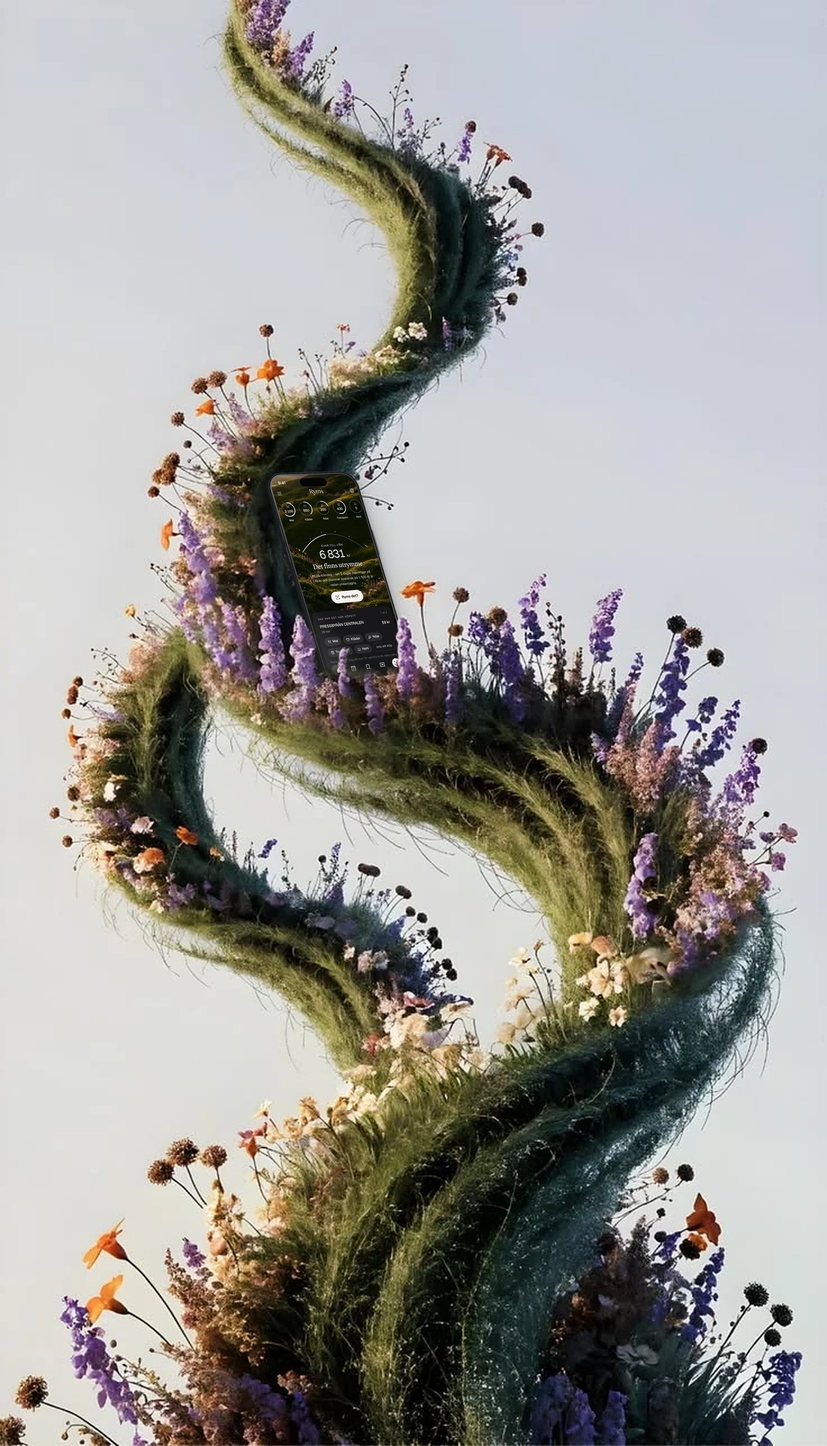
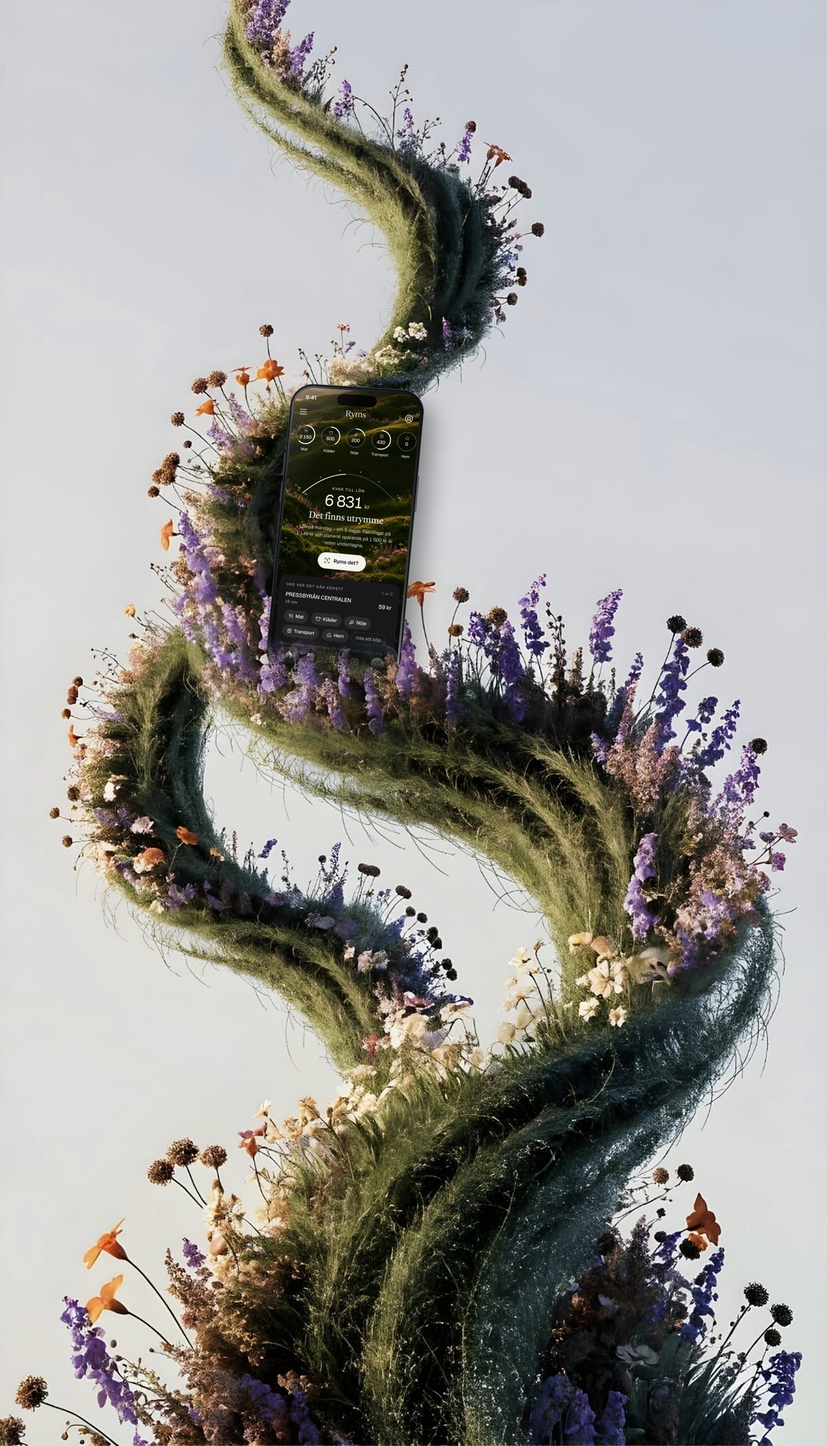
Landningssida: tillbaka till den upprätta telefonen, större och centrerad på mobil
Claude-Session: https://claude.ai/code/session_01GAD7svFHpQ8hFb5MfyqAze

diff --git a/src/app/globals.css b/src/app/globals.css
@@ -2816,3 +2816,23 @@ body:not(:has(.shell.home)):not(:has([data-testid="result"])) .backdrop::after {
     background: linear-gradient(180deg, rgba(240, 242, 244, 0.94) 0%, rgba(240, 242, 244, 0.8) 52%, rgba(240, 242, 244, 0) 100%);
   }
 }
+
+/* Landningssidan på mobil: telefonen större och mitt i bild */
+@media (max-width: 899px) {
+  .lp-art {
+    top: -91vw;
+    left: -59.300vw;
+    width: 250vw;
+  }
+  .lp-hero-copy {
+    padding-top: 128vw;
+  }
+  .lp-hero-copy::before {
+    top: 110vw;
+  }
+}
+@media (max-width: 899px) {
+  .lp-art {
+    left: -54.800vw;
+  }
+}

diff --git a/scripts/landing-hero.py b/scripts/landing-hero.py
@@ -1,85 +1,51 @@
 """Bygger landningssidans bild: telefonen (assets/landing/phone.png) läggs in i blomsterspiralen.
 
-Telefonen vilar bakåtlutad mot den mörka grenen, med toppen uppåt vänster och foten i lavendeln.
-
   npm run build && node tests/preview/landing-shots.cjs && node scripts/landing-phone.cjs && python3 scripts/landing-hero.py
 """
-import math, os
+import os
 import numpy as np
 from PIL import Image, ImageFilter, ImageChops
 
 ROOT = os.path.dirname(os.path.dirname(os.path.abspath(__file__)))
 A = lambda *p: os.path.join(ROOT, *p)
 K = 2  # arbetsskala
+# Telefonens läge i originalbilden (1143 x 1996): mittpunkt och höjd
+CX, CY, PH = 500, 772, 500
 
 marked = Image.open(A("assets/landing/spiral-marked.jpg")).convert("RGB")
 clean = Image.open(A("assets/landing/spiral-clean.webp")).convert("RGB").resize(marked.size, Image.LANCZOS)
-base = clean.resize((clean.width * K, clean.height * K), Image.LANCZOS).filter(ImageFilter.UnsharpMask(radius=2, percent=60, threshold=2))
-
-# Telefonens fyra hörn, avlästa ur förlagan assets/landing/phone-placement.png (878 x 1536):
-# vänster-upp, höger-upp, höger-ned, vänster-ned.
-REF_W = 878
-pts = [(280, 503), (377, 500), (441, 716), (347, 729)]
-f = marked.width / REF_W
-cx, cy = sum(p[0] for p in pts) / 4, sum(p[1] for p in pts) / 4
-quad = [(x * f * K, y * f * K) for x, y in pts]
-CX, CY = cx * f, cy * f
+# Ta bort den röda markeringen: ersätt de röda pixlarna med den rena bildens
+m = np.array(marked).astype(int)
+red = ((m[..., 0] > 170) & (m[..., 1] < 75) & (m[..., 2] < 75)).astype(np.uint8) * 255
+redmask = Image.fromarray(red).filter(ImageFilter.MaxFilter(9)).filter(ImageFilter.GaussianBlur(2))
+base = Image.composite(clean, marked, redmask)
+base = base.resize((base.width * K, base.height * K), Image.LANCZOS).filter(ImageFilter.UnsharpMask(radius=2, percent=60, threshold=2))
 
 phone = Image.open(A("assets/landing/phone.png")).convert("RGBA")
-phone = phone.crop(phone.getbbox())
-PW, PH = phone.size
+h = PH * K
+phone = phone.resize((int(phone.width * h / phone.height), h), Image.LANCZOS)
+x0, y0 = CX * K - phone.width // 2, CY * K - phone.height // 2
 
+# Skugga bakom telefonen
+alpha = phone.split()[3]
+shadow = Image.new("L", base.size, 0)
+shadow.paste(alpha, (x0 + 14 * K, y0 + 18 * K))
+shadow = shadow.filter(ImageFilter.GaussianBlur(16 * K)).point(lambda v: int(v * 0.42))
+out = Image.composite(Image.new("RGB", base.size, (20, 24, 22)), base, shadow)
+out.paste(phone, (x0, y0), phone)
 
-def coeffs(dst, src):
-    a, b = [], []
-    for (x, y), (u, v) in zip(dst, src):
-        a.append([x, y, 1, 0, 0, 0, -u * x, -u * y])
-        a.append([0, 0, 0, x, y, 1, -v * x, -v * y])
-        b += [u, v]
-    return tuple(np.linalg.solve(np.array(a, float), np.array(b, float)))
-
-
-SS = 2
-big = (base.width * SS, base.height * SS)
-src = [(0, 0), (PW, 0), (PW, PH), (0, PH)]
-
-
-def warp(im, q):
-    return im.transform(big, Image.PERSPECTIVE, coeffs([(x * SS, y * SS) for x, y in q], src), Image.BICUBIC).resize(base.size, Image.LANCZOS)
-
-
-layer = warp(phone, quad)
-alpha = layer.split()[3]
-
-# Skugga på grenen: tät nära telefonen (den ligger an), mjukare längre ut
-out = base
-for dx, dy, blur, strength in ((-10, 12, 22, 0.42), (-3, 5, 6, 0.5)):
-    sh = Image.new("L", base.size, 0)
-    sh.paste(alpha, (dx * K, dy * K))
-    sh = sh.filter(ImageFilter.GaussianBlur(blur * K)).point(lambda v, s=strength: int(v * s))
-    out = Image.composite(Image.new("RGB", base.size, (14, 18, 16)), out, sh)
-# Kantens tjocklek: en mörk kopia strax nedanför till vänster
-edge = Image.new("L", base.size, 0)
-edge.paste(alpha, (-3 * K, 4 * K))
-out = Image.composite(Image.new("RGB", base.size, (26, 28, 30)), out, edge)
-out.paste(layer, (0, 0), layer)
-
-# Blommorna runt telefonen ska ligga framför dess kanter, som i ett foto: lavendel och orange blommor
-# (inte den mörka grenen, som telefonen vilar mot), plus växtligheten allra längst ned vid foten.
+# Växtligheten i förgrunden ska ligga framför telefonens nedre del, så att den sitter i spiralen.
 b = np.array(base).astype(int)
-R, G, B = b[..., 0], b[..., 1], b[..., 2]
-lavender = (B > G + 14) & (R > G - 4) & (R + G + B > 200)
-poppy = (R > 170) & (G > 70) & (G < 175) & (B < 110) & (R > G + 40)
-pale = (R > 150) & (G > 120) & (B > 110) & (R > B + 12) & (np.abs(b - np.median(b[: 200 * K : 7, :: 7].reshape(-1, 3), axis=0)).sum(axis=2) > 70)
-flowers = Image.fromarray((lavender * 255).astype(np.uint8)).filter(ImageFilter.MedianFilter(5)).filter(ImageFilter.MaxFilter(5)).filter(ImageFilter.GaussianBlur(1.6))
 sky = np.median(b[: 200 * K : 7, :: 7].reshape(-1, 3), axis=0)
-foliage = ((np.abs(b - sky).sum(axis=2) > 95) | (b.sum(axis=2) < sky.sum() - 110)).astype(np.uint8) * 255
+dist = np.abs(b - sky).sum(axis=2)
+dark = b.sum(axis=2) < sky.sum() - 110
+foliage = ((dist > 95) | dark).astype(np.uint8) * 255
 fol = Image.fromarray(foliage).filter(ImageFilter.MedianFilter(5)).filter(ImageFilter.GaussianBlur(1.2))
+ramp = np.zeros((base.height, base.width), np.float32)
+top, bot = y0 + int(phone.height * 0.80), y0 + int(phone.height * 0.90)
 ys = np.arange(base.height)[:, None]
-y_bot = max(q[1] for q in quad)
-ramp = np.clip((ys - (y_bot - 30 * K)) / (20 * K), 0, 1) * np.ones((1, base.width))
-foot = ImageChops.multiply(fol, Image.fromarray((ramp * 255).astype(np.uint8)))
-front = ImageChops.lighter(flowers, foot)
+ramp[:] = np.clip((ys - top) / max(1, bot - top), 0, 1)
+front = ImageChops.multiply(fol, Image.fromarray((ramp * 255).astype(np.uint8)))
 out = Image.composite(base, out, front)
 
 W = 2000
@@ -87,6 +53,4 @@ out = out.resize((W, int(out.height * W / out.width)), Image.LANCZOS)
 out.save(A("public/landing/spiral.jpg"), quality=84, optimize=True, progressive=True)
 print("public/landing/spiral.jpg", out.size, os.path.getsize(A("public/landing/spiral.jpg")) // 1024, "kB")
 s = W / 1143
-check = os.environ.get("CHECK")
-if check:
-    out.crop((int((CX - 330) * s), int((CY - 360) * s), int((CX + 330) * s), int((CY + 300) * s))).resize((900, 900)).save(check, quality=88)
+out.crop((int((CX - 330) * s), int((CY - 330) * s), int((CX + 330) * s), int((CY + 330) * s))).resize((900, 900)).save("/tmp/claude-0/-home-user-ryms-app/065d15f7-ef26-57a3-a390-63ae83b79f8d/scratchpad/spiral-check.jpg", quality=88)
